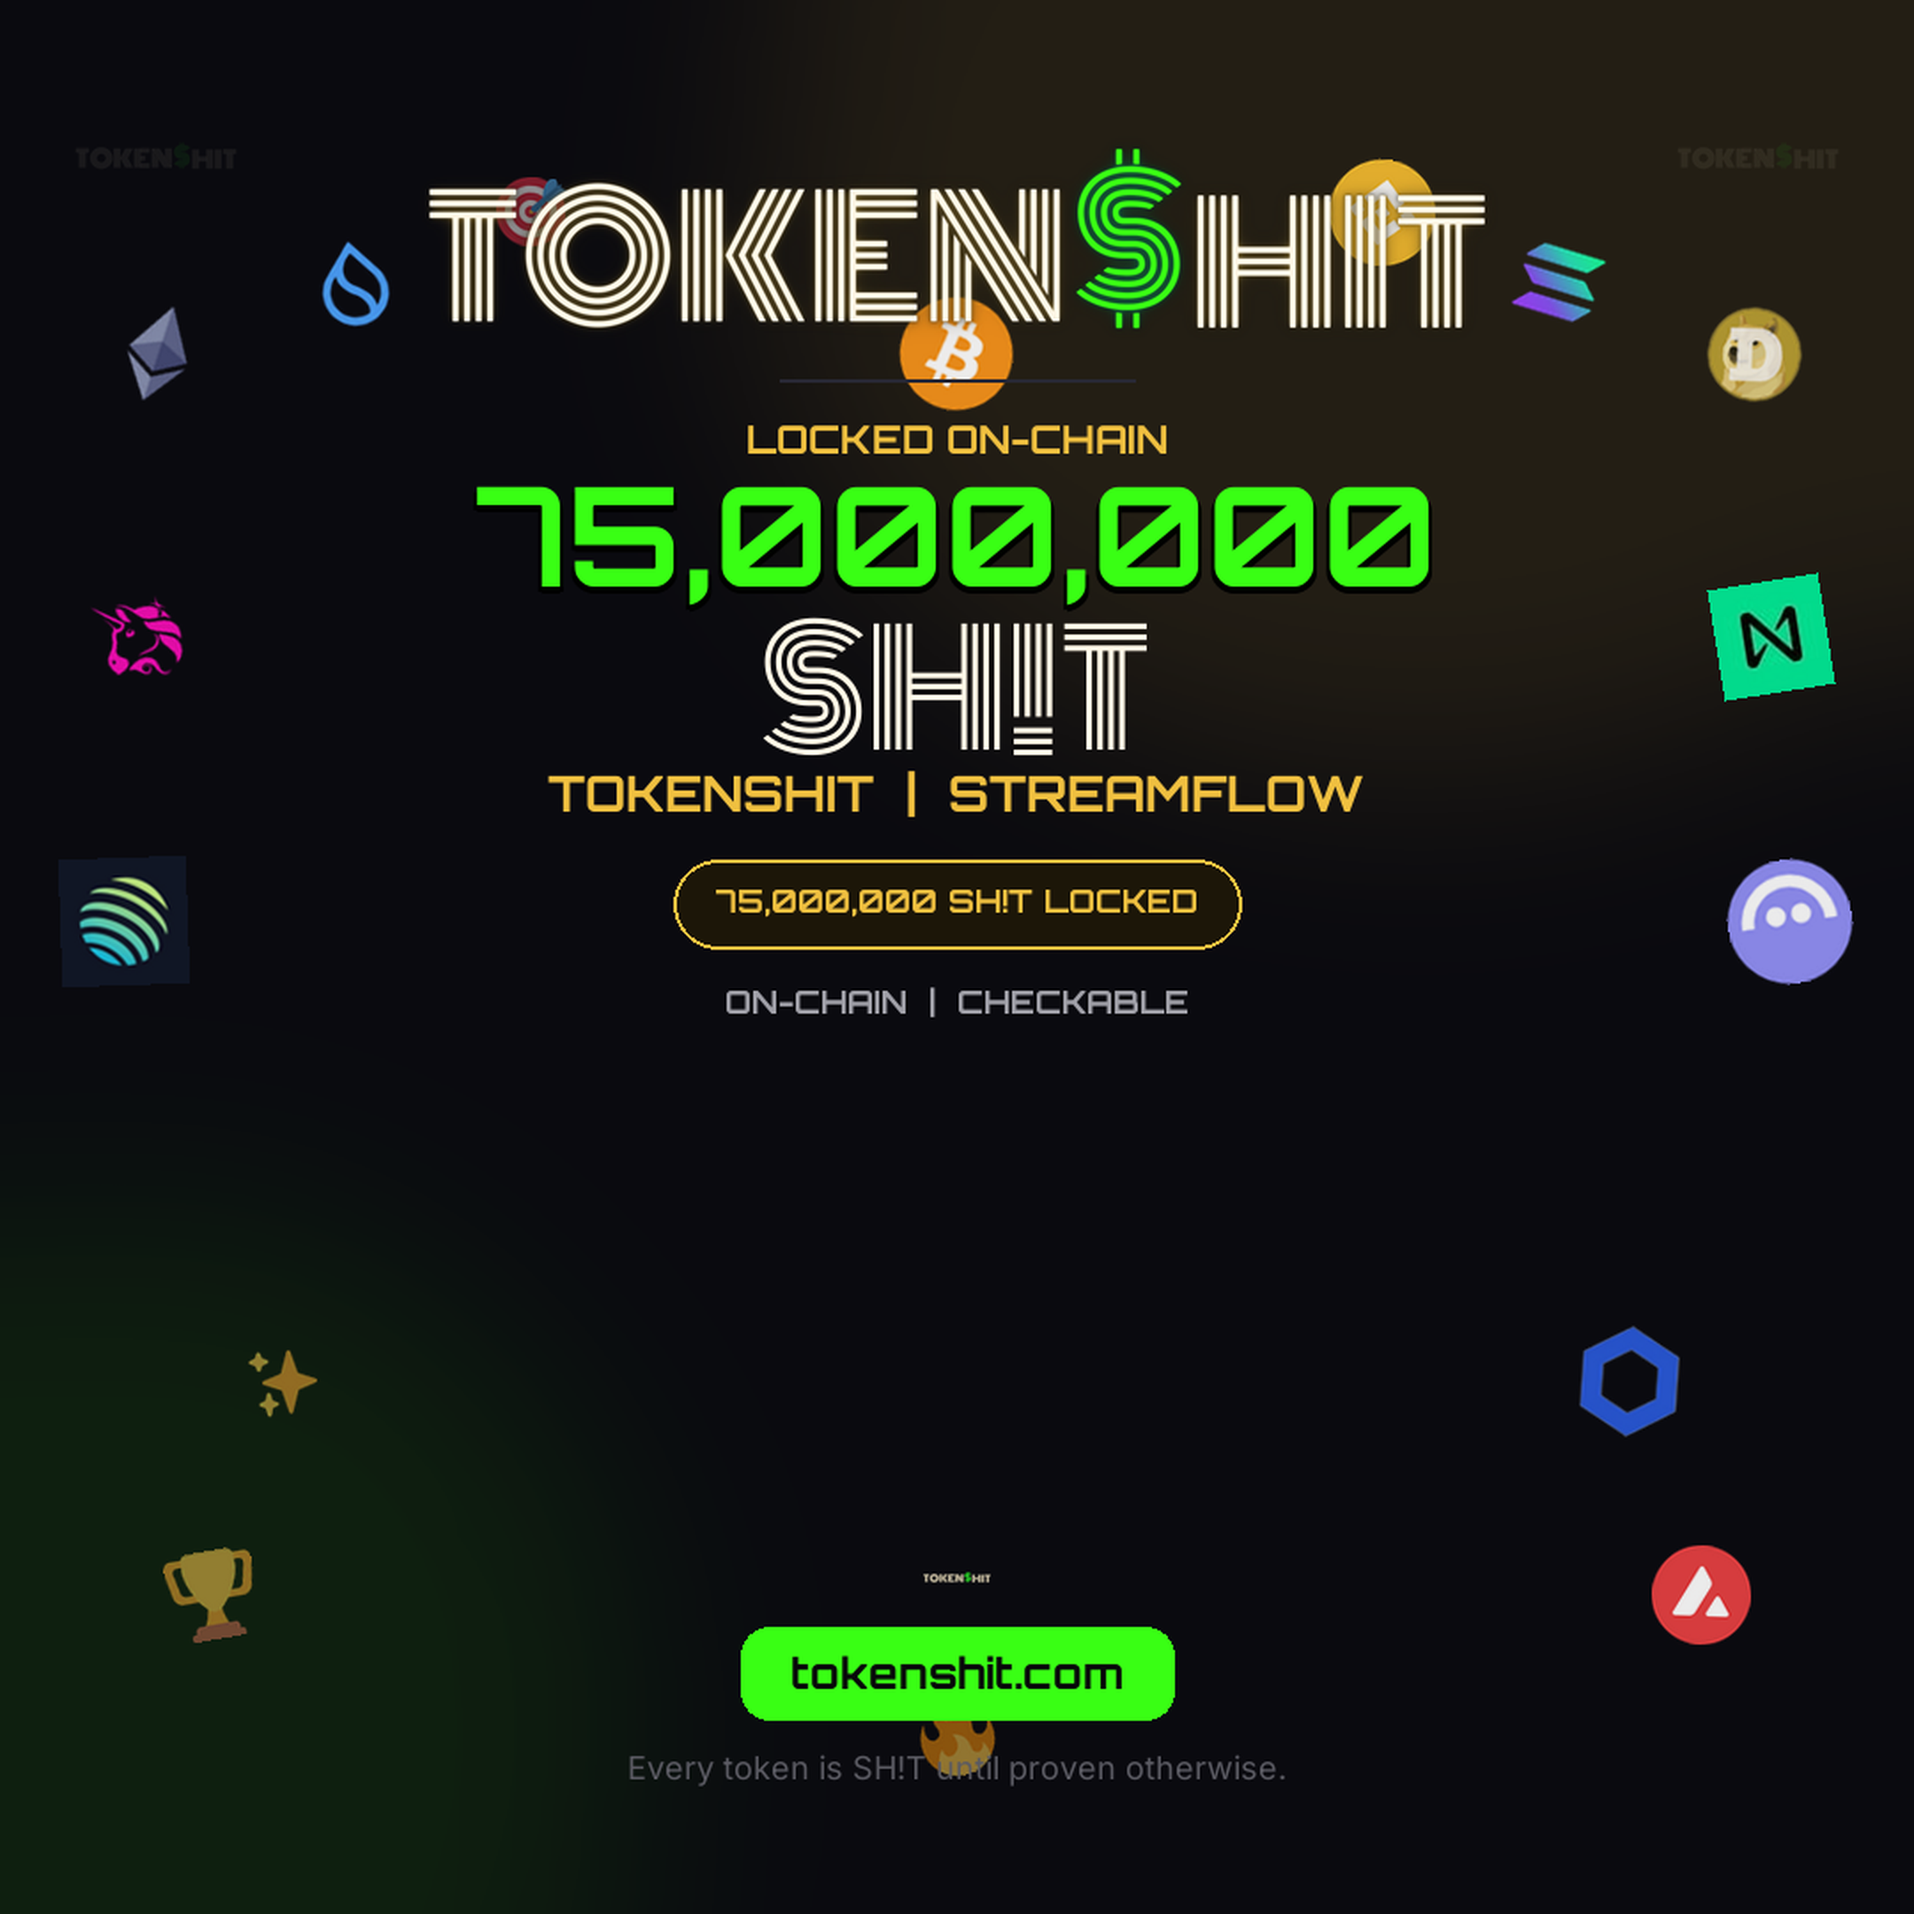
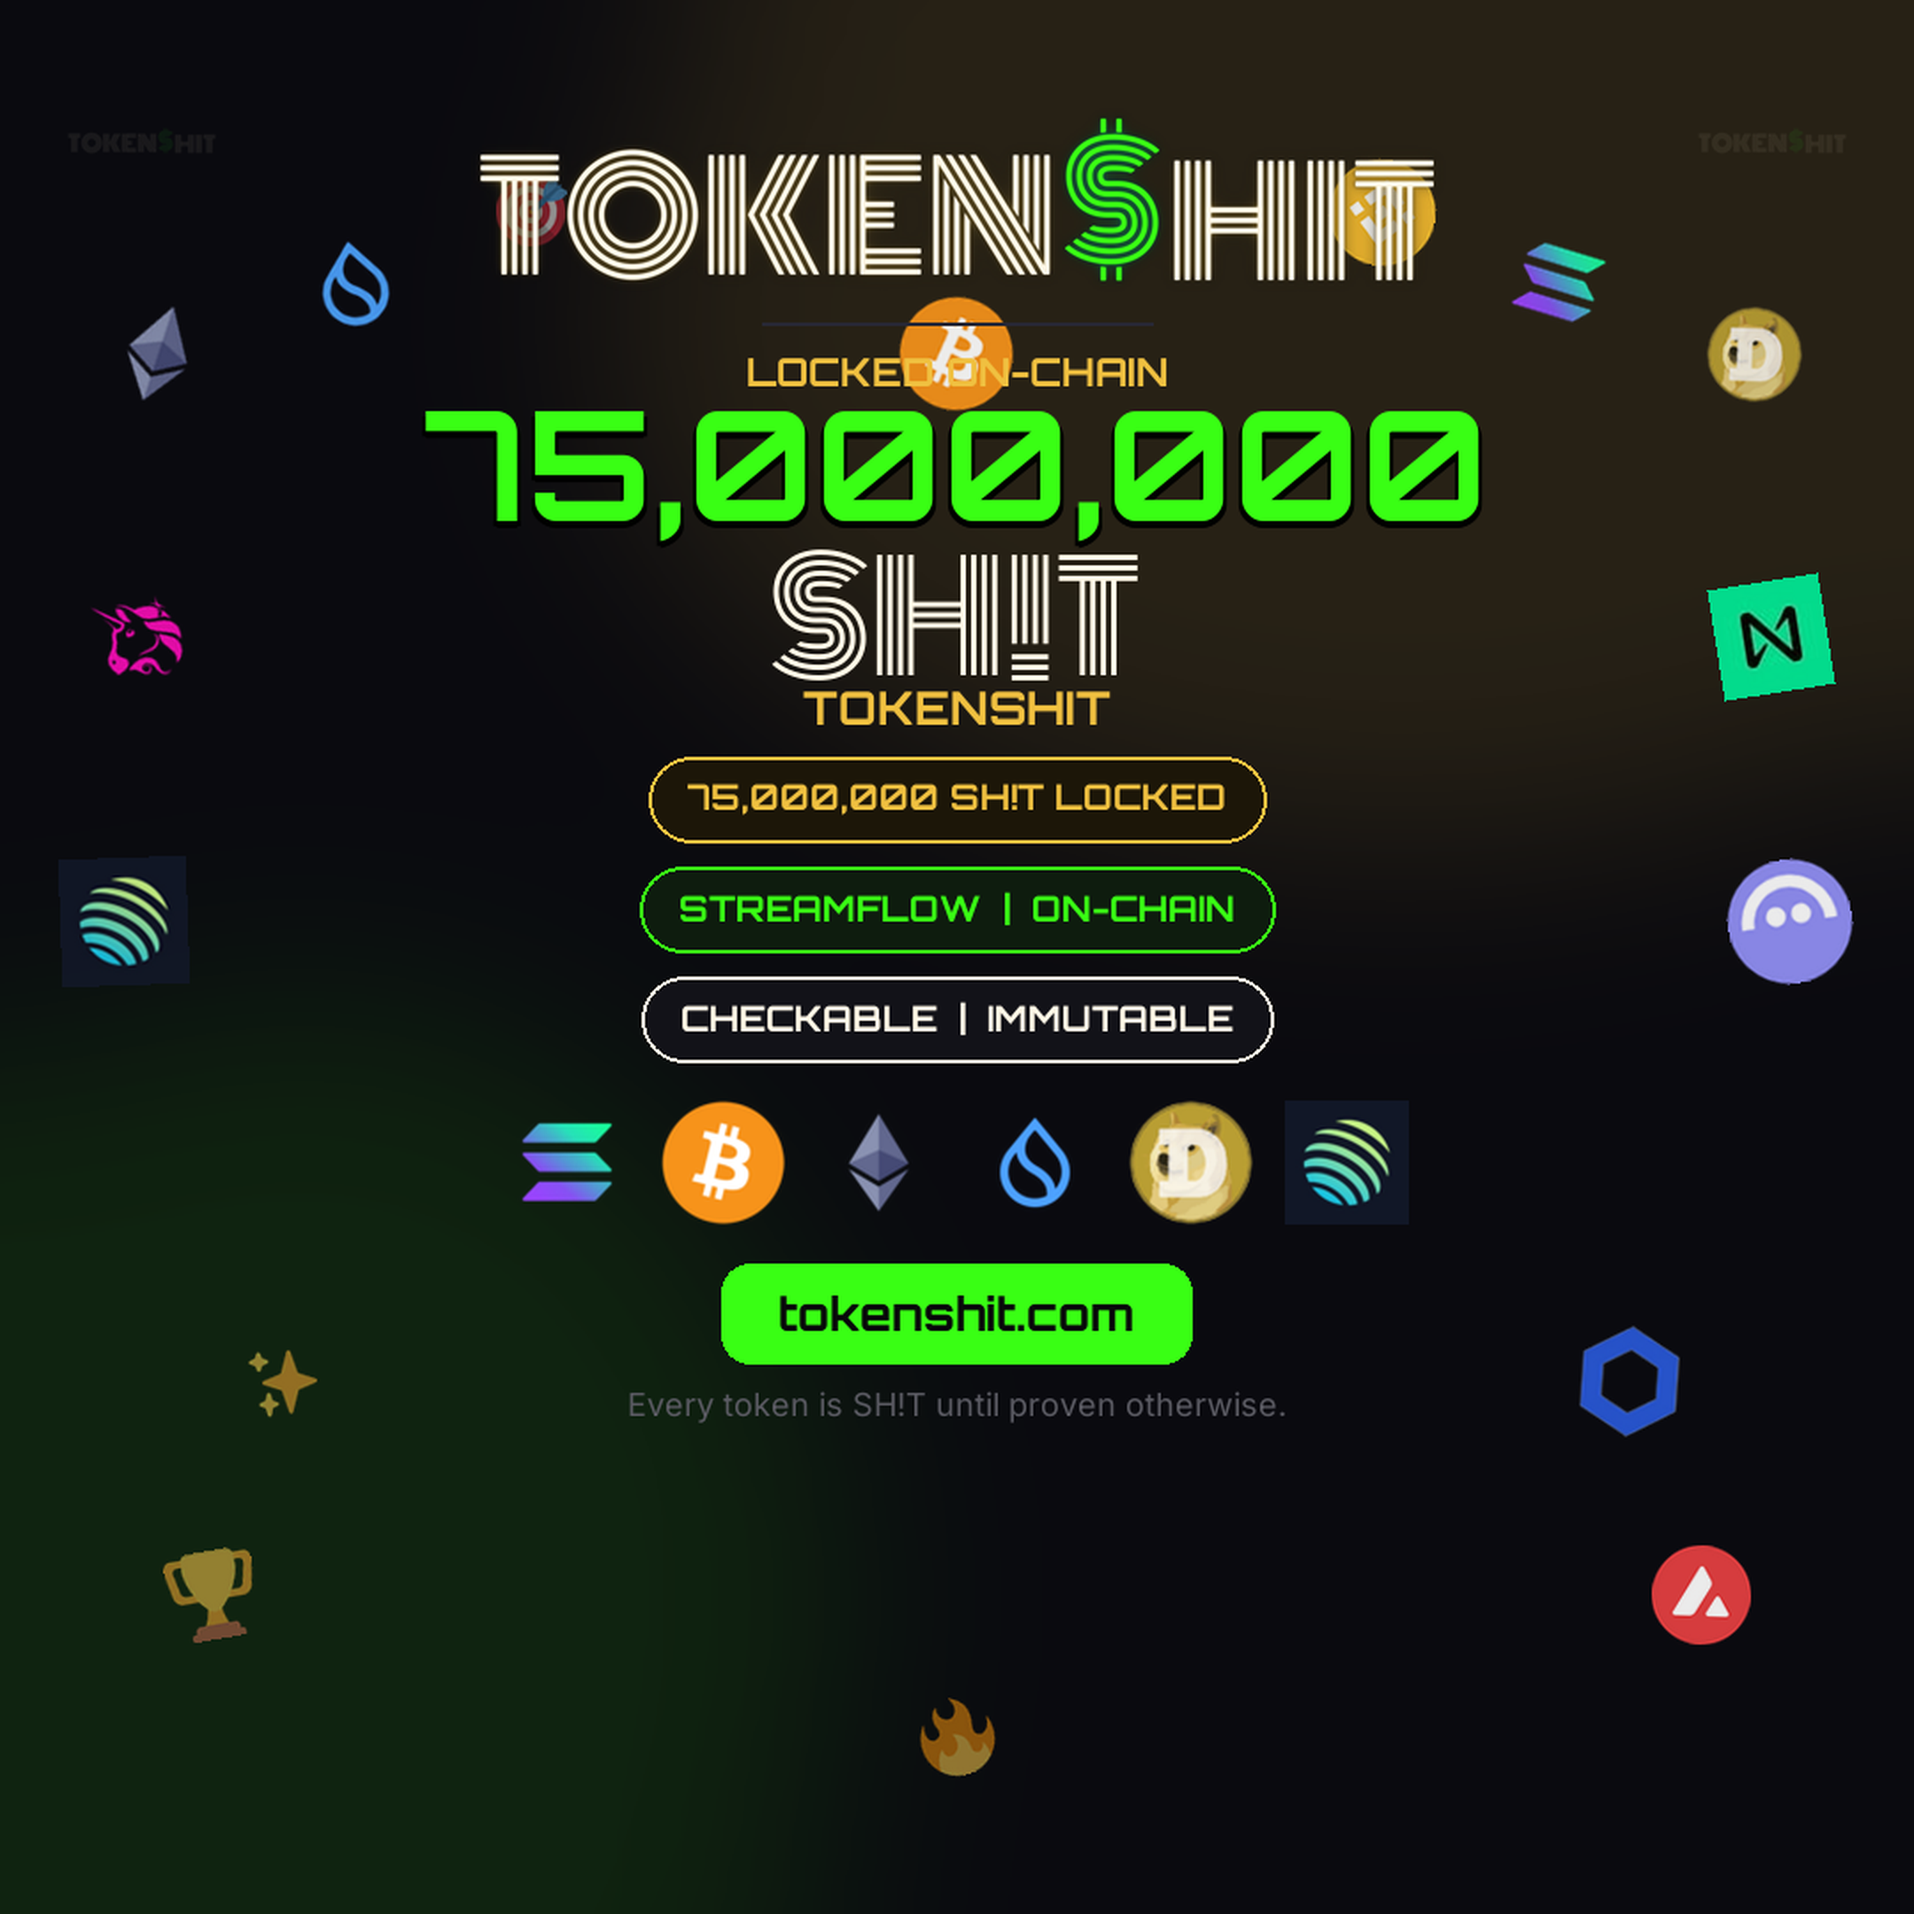
fix: fill empty bottom of 75M lock poster

Changed region(s): [[0.2171, 0.062, 0.7755, 0.7444], [0.3412, 0.8375, 0.6514, 0.9306]]

diff --git a/scripts/generate-lock-poster.py b/scripts/generate-lock-poster.py
@@ -20,6 +20,60 @@ assert spec.loader
 spec.loader.exec_module(g)
 
 AMT = "75,000,000"
+ICONS = [
+    "solana.png",
+    "bitcoin.png",
+    "ethereum.png",
+    "sui.png",
+    "dogecoin.png",
+    "jupiter-exchange-solana.png",
+]
+
+
+def icon_row(img: Image.Image, y: int, size: int = 72) -> int:
+    files = []
+    for name in ICONS:
+        p = BRAND / "token-icons" / name
+        if p.exists():
+            files.append(p)
+    if not files:
+        return y
+    n = len(files)
+    gap = 18
+    total = n * size + (n - 1) * gap
+    x0 = (g.S - total) // 2
+    for i, p in enumerate(files):
+        im = Image.open(p).convert("RGBA").resize((size, size), Image.Resampling.LANCZOS)
+        # round-ish
+        img.paste(im, (x0 + i * (size + gap), y), im)
+    return y + size
+
+
+def pill(
+    d: ImageDraw.ImageDraw,
+    y: int,
+    text: str,
+    font,
+    fill,
+    outline,
+    fg,
+) -> int:
+    pw = g.tw(font, text) + 44
+    ph = 48
+    px = (g.S - pw) // 2
+    d.rounded_rectangle([px, y, px + pw, y + ph], radius=24, fill=fill)
+    d.rounded_rectangle([px, y, px + pw, y + ph], radius=24, outline=outline, width=2)
+    pb = font.getbbox(text)
+    d.text(
+        (
+            px + (pw - g.tw(font, text)) // 2 - pb[0],
+            y + (ph - g.th(font, text)) // 2 - pb[1],
+        ),
+        text,
+        font=font,
+        fill=fg,
+    )
+    return y + ph
 
 
 def build() -> Image.Image:
@@ -27,33 +81,33 @@ def build() -> Image.Image:
     img = Image.new("RGBA", (S, S), (*g.BG, 255))
     glow = Image.new("RGBA", (S, S), (0, 0, 0, 0))
     gd = ImageDraw.Draw(glow)
-    gd.ellipse([380, -200, 1220, 480], fill=(*g.GOLD, 28))
-    gd.ellipse([-220, 640, 400, 1280], fill=(*g.NEON, 22))
+    gd.ellipse([300, -160, 1280, 520], fill=(*g.GOLD, 32))
+    gd.ellipse([-180, 520, 520, 1280], fill=(*g.NEON, 26))
     img = Image.alpha_composite(img, glow.filter(ImageFilter.GaussianBlur(72)))
     g.scatter_icons(img, __import__("random").Random(13))
 
-    mark = g.load_logo_mark(96)
-    g.paste(img, mark, 88, 88, 0.10)
-    g.paste(img, mark, S - 88, 88, 0.10)
+    mark = g.load_logo_mark(88)
+    g.paste(img, mark, 80, 80, 0.10)
+    g.paste(img, mark, S - 80, 80, 0.10)
 
     d = ImageDraw.Draw(img)
     f_eye = g.fnt("Orbitron-Bold.ttf", 22)
-    f_num = g.fnt("Orbitron-Bold.ttf", 78)
-    f_hero = g.fnt("Monoton-Regular.ttf", 88)
-    f_sub = g.fnt("Orbitron-Bold.ttf", 28)
-    f_pill = g.fnt("Orbitron-Bold.ttf", 18)
-    f_cta = g.fnt("Orbitron-Bold.ttf", 24)
+    f_num = g.fnt("Orbitron-Bold.ttf", 86)
+    f_hero = g.fnt("Monoton-Regular.ttf", 84)
+    f_sub = g.fnt("Orbitron-Bold.ttf", 26)
+    f_pill = g.fnt("Orbitron-Bold.ttf", 20)
+    f_cta = g.fnt("Orbitron-Bold.ttf", 26)
     f_foot = g.fnt("Inter-Regular.ttf", 18)
 
-    y = M
-    logo = g.load_logo_wide(max_w=620)
+    y = 56
+    logo = g.load_logo_wide(max_w=560)
     g.paste(img, logo, S // 2, y + logo.height // 2)
-    y += logo.height + 16
+    y += logo.height + 12
     mid = S // 2
-    d.line([(mid - 100, y), (mid + 100, y)], fill=g.LINE, width=2)
-    y += 26
+    d.line([(mid - 110, y), (mid + 110, y)], fill=g.LINE, width=2)
+    y += 20
 
-    y = g.draw_centered(d, y, "LOCKED ON-CHAIN", f_eye, g.GOLD) + 18
+    y = g.draw_centered(d, y, "LOCKED ON-CHAIN", f_eye, g.GOLD) + 14
 
     hb = f_num.getbbox(AMT)
     hx = g.center_x(f_num, AMT) - hb[0]
@@ -61,59 +115,40 @@ def build() -> Image.Image:
     for dx, dy in ((-2, 3), (2, 3), (0, 4)):
         d.text((hx + dx, hy + dy), AMT, font=f_num, fill=(0, 0, 0, 140))
     d.text((hx, hy), AMT, font=f_num, fill=g.NEON)
-    y += (hb[3] - hb[1]) + 6
+    y += (hb[3] - hb[1]) + 4
 
-    y = g.draw_centered(d, y, "SH!T", f_hero, g.CREAM) + 8
-    y = g.draw_centered(d, y, "TOKENSHIT  |  STREAMFLOW", f_sub, g.GOLD) + 24
+    y = g.draw_centered(d, y, "SH!T", f_hero, g.CREAM) + 6
+    y = g.draw_centered(d, y, "TOKENSHIT", f_sub, g.GOLD) + 18
 
-    pill = "75,000,000 SH!T LOCKED"
-    pw = g.tw(f_pill, pill) + 48
-    ph = 50
-    px = (S - pw) // 2
-    d.rounded_rectangle([px, y, px + pw, y + ph], radius=25, fill=(28, 22, 8))
-    d.rounded_rectangle(
-        [px, y, px + pw, y + ph], radius=25, outline=g.GOLD, width=2
-    )
-    pb = f_pill.getbbox(pill)
-    d.text(
-        (
-            px + (pw - g.tw(f_pill, pill)) // 2 - pb[0],
-            y + (ph - g.th(f_pill, pill)) // 2 - pb[1],
-        ),
-        pill,
-        font=f_pill,
-        fill=g.GOLD,
-    )
-    y += ph + 22
+    y = pill(d, y, "75,000,000 SH!T LOCKED", f_pill, (28, 22, 8), g.GOLD, g.GOLD) + 14
+    y = pill(d, y, "STREAMFLOW  |  ON-CHAIN", f_pill, (14, 28, 14), g.NEON, g.NEON) + 14
+    y = pill(d, y, "CHECKABLE  |  IMMUTABLE", f_pill, (18, 18, 24), g.CREAM, g.CREAM) + 22
 
-    y = g.draw_centered(d, y, "ON-CHAIN  |  CHECKABLE", f_pill, g.MUTED)
+    y = icon_row(img, y, 70) + 22
 
-    foot = "Every token is SH!T until proven otherwise."
-    foot_h = g.th(f_foot, foot)
-    foot_y = S - M - foot_h
     cta = "tokenshit.com"
-    cw = g.tw(f_cta, cta) + 56
-    ch = 52
-    mark_sm = g.load_logo_mark(40)
-    block_h = 40 + 10 + ch
-    block_top = foot_y - 18 - block_h
-    if block_top < y + 12:
-        block_top = y + 12
-    g.paste(img, mark_sm, S // 2, block_top + 20)
-    by = block_top + 48
+    cw = g.tw(f_cta, cta) + 64
+    ch = 56
     cx0 = (S - cw) // 2
-    d.rounded_rectangle([cx0, by, cx0 + cw, by + ch], radius=16, fill=g.NEON)
+    d.rounded_rectangle([cx0, y, cx0 + cw, y + ch], radius=16, fill=g.NEON)
     cb = f_cta.getbbox(cta)
     d.text(
         (
             cx0 + (cw - g.tw(f_cta, cta)) // 2 - cb[0],
-            by + (ch - g.th(f_cta, cta)) // 2 - cb[1],
+            y + (ch - g.th(f_cta, cta)) // 2 - cb[1],
         ),
         cta,
         font=f_cta,
         fill=(8, 8, 10),
     )
-    g.draw_centered(d, foot_y, foot, f_foot, g.DIM)
+    y += ch + 16
+    g.draw_centered(
+        d,
+        min(y, S - M - g.th(f_foot, "x")),
+        "Every token is SH!T until proven otherwise.",
+        f_foot,
+        g.DIM,
+    )
     return img.convert("RGB")
 
 
